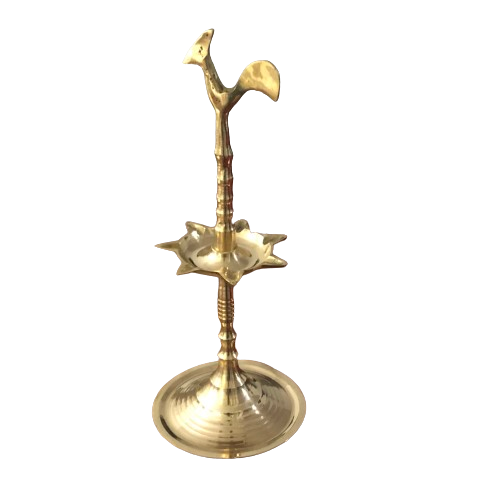
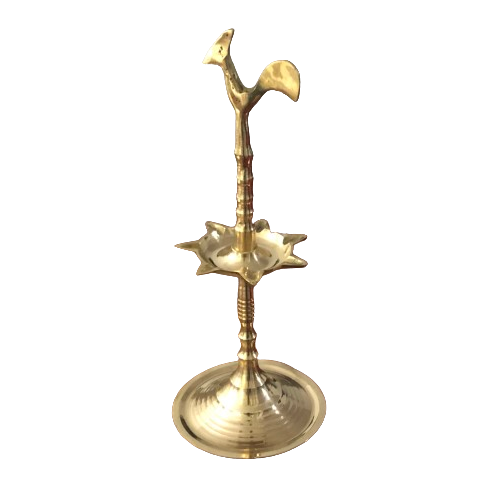
feat: add OilLamp component with interactive wick positioning and responsive image rendering

Changed region(s): [[0.3, 0.06, 0.66, 0.93]]

diff --git a/pahana-app/components/OilLamp.tsx b/pahana-app/components/OilLamp.tsx
@@ -25,12 +25,15 @@ interface OilLampProps {
 
 export default function OilLamp({ litWicks, onWickClick, allLit }: OilLampProps) {
   return (
-    <div className="relative flex items-center justify-center">
+    <div className="relative flex items-center justify-center w-full">
 
-      {/* Lamp container - 1:1 Aspect Ratio exactly matching 500x500 image */}
+      {/* Lamp container — responsive: full-width on mobile, capped at 600px on desktop */}
       <div
-        className="relative"
-        style={{ width: '600px', height: '600px' }}
+        className="relative mx-auto"
+        style={{
+          width: 'min(600px, 100vw)',
+          height: 'min(600px, 100vw)',
+        }}
       >
         {/* The real lamp image */}
         <Image
